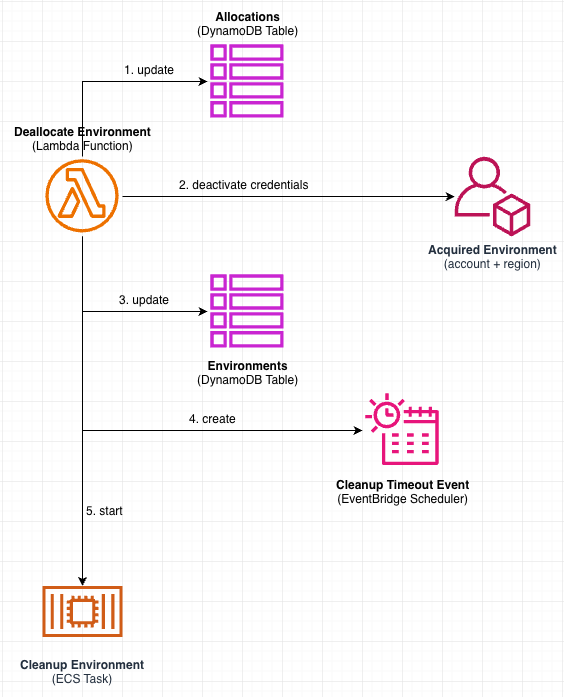
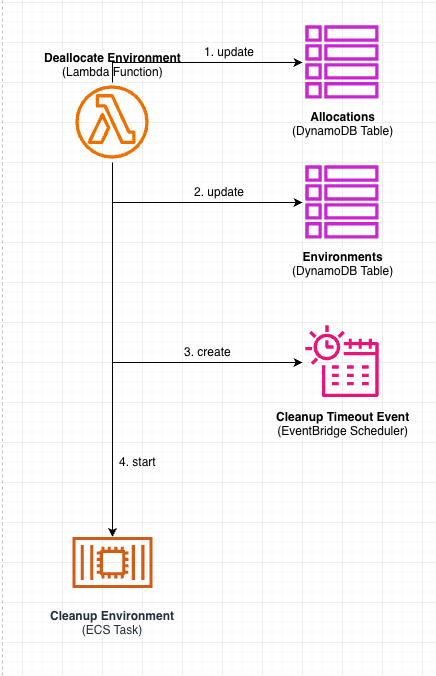
mid work

diff --git a/src/allocate/allocate.lambda.ts b/src/allocate/allocate.lambda.ts
@@ -1,6 +1,5 @@
 // eslint-disable-next-line import/no-extraneous-dependencies
 import * as crypto from 'crypto';
-import { STS } from '@aws-sdk/client-sts';
 import { APIGatewayProxyEvent, APIGatewayProxyResult } from 'aws-lambda';
 // eslint-disable-next-line import/no-extraneous-dependencies
 import { RuntimeClients } from '../clients';
@@ -35,7 +34,6 @@ export interface Credentials {
 export interface AllocateResponse {
   readonly id: string;
   readonly environment: Environment;
-  readonly credentials: Credentials;
 }
 
 const clients = RuntimeClients.getOrCreate();
@@ -75,12 +73,9 @@ async function doHandler(allocationId: string, request: AllocateRequest, log: Lo
   log.info(`Starting allocation of 'aws://${environment.account}/${environment.region}'`);
   await startAllocation(allocationId, environment, request.requester);
 
-  log.info(`Grabbing credentials to aws://${environment.account}/${environment.region} using role: ${environment.adminRoleArn}`);
-  const credentials = await grabCredentials(allocationId, environment);
-
   log.info('Allocation started successfully');
 
-  const response: AllocateResponse = { id: allocationId, environment, credentials };
+  const response: AllocateResponse = { id: allocationId, environment };
 
   log.info(`Scheduling allocation timeout to ${timeoutDate}`);
   await clients.scheduler.scheduleAllocationTimeout({
@@ -147,36 +142,6 @@ async function startAllocation(id: string, environment: Environment, requester: 
     }
     throw e;
   }
-}
-
-async function grabCredentials(id: string, environment: Environment): Promise<Credentials> {
-  const sts = new STS();
-  const assumed = await sts.assumeRole({
-    RoleArn: environment.adminRoleArn,
-    RoleSessionName: `atmosphere.allocation.${id}`,
-  });
-
-  if (!assumed.Credentials) {
-    throw new Error(`Assumed ${environment.adminRoleArn} role did not return credentials`);
-  }
-
-  if (!assumed.Credentials.AccessKeyId) {
-    throw new Error(`Assumed ${environment.adminRoleArn} role did not return an access key id`);
-  }
-
-  if (!assumed.Credentials.SecretAccessKey) {
-    throw new Error(`Assumed ${environment.adminRoleArn} role did not return a secret access key`);
-  }
-
-  if (!assumed.Credentials.SessionToken) {
-    throw new Error(`Assumed ${environment.adminRoleArn} role did not return a session token`);
-  }
-
-  return {
-    accessKeyId: assumed.Credentials.AccessKeyId,
-    secretAccessKey: assumed.Credentials.SecretAccessKey,
-    sessionToken: assumed.Credentials.SessionToken,
-  };
 }
 
 function success(body: any) {

diff --git a/test/unit/allocate/allocate.lambda.test.ts b/test/unit/allocate/allocate.lambda.test.ts
@@ -1,6 +1,4 @@
-import { AssumeRoleCommand, STSClient } from '@aws-sdk/client-sts';
 import { APIGatewayProxyEvent } from 'aws-lambda';
-import { mockClient } from 'aws-sdk-client-mock';
 import { handler } from '../../../src/allocate/allocate.lambda';
 import { RuntimeClients } from '../../../src/clients';
 import * as envars from '../../../src/envars';
@@ -16,10 +14,7 @@ const clients = RuntimeClients.getOrCreate();
 
 describe('handler', () => {
 
-  const stsMock = mockClient(STSClient);
-
   beforeEach(() => {
-    stsMock.reset();
     RuntimeClientsMock.mock();
     jest.clearAllMocks();
   });
@@ -85,15 +80,6 @@ describe('handler', () => {
 
   test('returns 200 on success', async () => {
 
-    stsMock.on(AssumeRoleCommand).resolves({
-      Credentials: {
-        AccessKeyId: 'key',
-        SecretAccessKey: 'secret',
-        SessionToken: 'token',
-        Expiration: new Date(),
-      },
-    });
-
     jest.spyOn(clients.configuration, 'listEnvironments').mockReturnValue(Promise.resolve([{
       account: '1111',
       region: 'us-east-1',
@@ -115,11 +101,6 @@ describe('handler', () => {
       pool: 'canary',
       adminRoleArn: 'arn:aws:iam::1111:role/Admin',
     });
-    expect(body.credentials).toEqual({
-      accessKeyId: 'key',
-      secretAccessKey: 'secret',
-      sessionToken: 'token',
-    });
 
     expect(clients.environments.acquire).toHaveBeenCalledWith(expect.any(String), '1111', 'us-east-1');
     expect(clients.allocations.start).toHaveBeenCalledWith({
@@ -135,24 +116,9 @@ describe('handler', () => {
       timeoutDate: expect.any(Date),
     });
 
-    expect(stsMock).toHaveReceivedCommandTimes(AssumeRoleCommand, 1);
-    expect(stsMock).toHaveReceivedCommandWith(AssumeRoleCommand, {
-      RoleArn: 'arn:aws:iam::1111:role/Admin',
-      RoleSessionName: `atmosphere.allocation.${body.id}`,
-    });
-
   });
 
   test('will try acquiring multiple environments if needed', async () => {
-
-    stsMock.on(AssumeRoleCommand).resolves({
-      Credentials: {
-        AccessKeyId: 'key',
-        SecretAccessKey: 'secret',
-        SessionToken: 'token',
-        Expiration: new Date(),
-      },
-    });
 
     jest.spyOn(clients.configuration, 'listEnvironments').mockReturnValue(Promise.resolve([
       {

diff --git a/src/config/configuration.ts b/src/config/configuration.ts
@@ -26,8 +26,10 @@ export interface Environment {
   readonly pool: string;
 
   /**
-   * ARN of an Admin role in the account. This role must be pre-created
-   * and allow the service to assume it.
+   * ARN of an Admin role in the account. This role must be pre-created and
+   *
+   * - Allow the service itself to assume it. (for cleanup)
+   * - Allow the service caller to assume it. (for executing tests)
    */
   readonly adminRoleArn: string;
 

diff --git a/docs/design.md b/docs/design.md
@@ -15,9 +15,8 @@ allocation requests. Timeouts will be imposed to make sure integration tests don
 environment for an undetermined period of time.
 
 While the service is publicly available, it will not allow anonymous access. During service deployment,
-an operator will configure a list of accounts that will have access to the service. These are the
-accounts that test runners will be executed in. (note: these are not the target accounts
-where test resources are deployed to).
+an operator will configure a list of roles that will have access to the service. These are the
+roles that test runners will be executed with.
 
 ### Registration
 
@@ -26,7 +25,9 @@ be allocated to an integration test, it must first be registered with the servic
 Registration is a manual process that involves:
 
 1. Creating an AWS account.
-2. Creating an Admin Role that the service can assume to offer temporary credentials.
+2. Creating an Admin Role that that:
+    * Allows the service itself to assume it for performing cleanup.
+    * Allows the allow-listed roles to assume it for executing tests.
 3. Manually provisioning any desired resources in the account.
 4. Manually pushing a configuration update to the service codebase.
 5. Deploying the service.
@@ -60,8 +61,7 @@ request on behalf of the integration test.
 
 Whenever an integration test finishes execution, whether it failed or succeeded, it must
 issue an environment deallocation request. Upon receiving such a request, the service begins
-cleaning up the environment. In order to guarantee tests are unable to create resources after
-they have relinquished their environments, the service also deactivates all provided credentials.
+cleaning up the environment.
 
 Once cleanup completes successfully, the environment is marked as available and reinstated back
 to the list of available environments. This ensures tests are given a fresh environment,
@@ -113,7 +113,9 @@ Each environment can expose certain optional capabilities that are recorded in t
 **Registration consists of:**
 
 1. Creating an AWS account.
-2. Creating an Admin Role that the service can assume to offer temporary credentials.
+2. Creating an Admin Role that that:
+    * Allows the service itself to assume it for performing cleanup.
+    * Allows the allow-listed roles to assume it for executing tests.
 3. Manually provisioning any desired resources in the account.
 4. Adding a record to the service configuration.
 5. Deploying the service.
@@ -291,17 +293,18 @@ This allows the service to scale in response of higher demand.
 
 Allocation is a lambda function that allocates an existing environment upon request. It is invoked upon integration test request. Environments are allocated until the integration test relinquishes them, or until the 60 min allocation session expires. During the allocation duration, an environment is locked, and cannot be allocated to any other integration test.
 
-**Environment Credentials:**
+**Environment Authentication:**
 
-In order for integration tests to interact with the target environment, the service will provide it with explicit AWS credentials obtained by assuming an Admin role on its behalf. Session duration will be set to the allocation timeout, ensuring tests cannot create resources after the allocation has ended.
+In order for integration tests to interact with the target environment, the service will
+provide it with the ARN of an Admin role in said environment. The Admin role will be pre-configured
+in a way to allow the integration test runner to assume it.
 
 <img src="./images/allocate-diagram.png" width="250"/>
 
 1. Discover all registered environments from [Configuration (S3 Bucket)](#configuration-s3-bucket).
-2. Update status in [Environments (DynamoDB Table)](#environments-dynamodb-table).
-3. Grab credentials.
-4. Create allocation in [Allocations (DynamoDB Table)](#allocations-dynamodb-table).
-5. Create [Allocation Timeout Event (EventBridge Schedule)](#allocation-timeout-event-eventbridge-schedule).
+2. Insert environment to [Environments (DynamoDB Table)](#environments-dynamodb-table).
+3. Create allocation in [Allocations (DynamoDB Table)](#allocations-dynamodb-table).
+4. Create [Allocation Timeout Event (EventBridge Schedule)](#allocation-timeout-event-eventbridge-schedule).
 
 > Steps 2 through 5 are executed in a transactional manner.
 
@@ -321,10 +324,9 @@ It is invoked either upon integration test request, or by the [Allocation Timeou
 
 1. Update Allocations (DynamoDB Table) to mark that the allocation has ended. Event payload
 will be used to determine and mark whether the lambda was invoked by the [Allocation Timeout Event (EventBridge Schedule)](#allocation-timeout-event-eventbridge-schedule) or by the integration test.
-2. Deactivate all credentials that were provided to the integration test.
-3. Update [Environments (DynamoDB Table)](#environments-dynamodb-table) to mark the allocated environment is currently being cleaned.
-4. Create [Cleanup Timeout Event (EventBridge Schedule)](#cleanup-timeout-event-eventbridge-schedule) to ensure cleanup doesn’t hold the environment forever.
-5. Start [Cleanup (ECS Task)](#cleanup-ecs-task) to kick-off the environment cleanup process.
+2. Update [Environments (DynamoDB Table)](#environments-dynamodb-table) to mark the allocated environment is currently being cleaned.
+3. Create [Cleanup Timeout Event (EventBridge Schedule)](#cleanup-timeout-event-eventbridge-schedule) to ensure cleanup doesn’t hold the environment forever.
+4. Start [Cleanup (ECS Task)](#cleanup-ecs-task) to kick-off the environment cleanup process.
 
 > Steps 1 through 5 are executed in a transactional manner.
 

diff --git a/API.md b/API.md
@@ -2084,7 +2084,7 @@ const environment: Environment = { ... }
 | **Name** | **Type** | **Description** |
 | --- | --- | --- |
 | <code><a href="#@cdklabs/cdk-atmosphere-service.Environment.property.account">account</a></code> | <code>string</code> | Account ID. |
-| <code><a href="#@cdklabs/cdk-atmosphere-service.Environment.property.adminRoleArn">adminRoleArn</a></code> | <code>string</code> | ARN of an Admin role in the account. |
+| <code><a href="#@cdklabs/cdk-atmosphere-service.Environment.property.adminRoleArn">adminRoleArn</a></code> | <code>string</code> | ARN of an Admin role in the account. This role must be pre-created and. |
 | <code><a href="#@cdklabs/cdk-atmosphere-service.Environment.property.pool">pool</a></code> | <code>string</code> | Which pool does this environment belong to. |
 | <code><a href="#@cdklabs/cdk-atmosphere-service.Environment.property.region">region</a></code> | <code>string</code> | Region. |
 
@@ -2110,10 +2110,10 @@ public readonly adminRoleArn: string;
 
 - *Type:* string
 
-ARN of an Admin role in the account.
+ARN of an Admin role in the account. This role must be pre-created and.
 
-This role must be pre-created
-and allow the service to assume it.
+Allow the service itself to assume it. (for cleanup)
+- Allow the service caller to assume it. (for executing tests)
 
 ---
 
